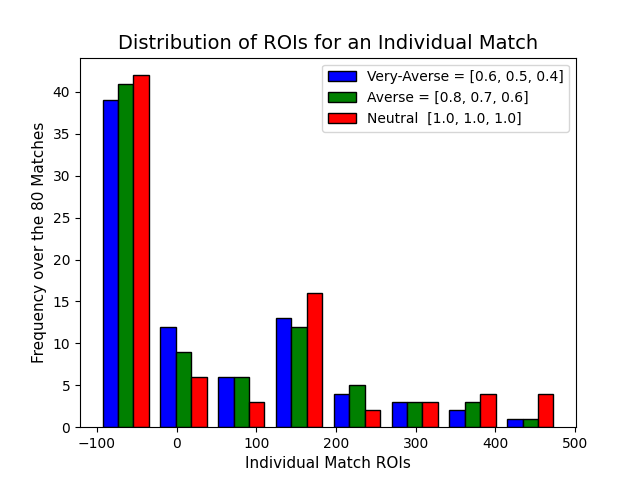
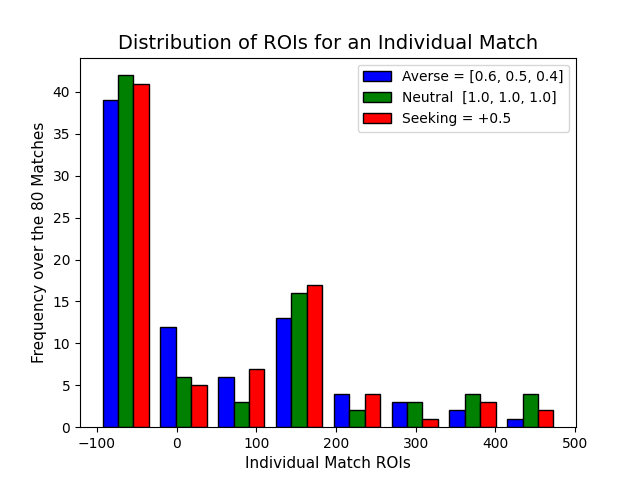
more plots

diff --git a/FullProjectCode/Visualisations.py b/FullProjectCode/Visualisations.py
@@ -21,7 +21,7 @@ def test80Matches(DB, matchesFileName):
     # Save figures to:
     #plotsFolder = 'C:\\Users\\campb\\OneDrive\\Documents\\University_ENGSCI\\4th Year\\ResearchProject\\ModelPlots\\'
     plotsFolder ='C:/Uni/4thYearProject/repo/BeatTheOdds/ProjectDevelopmentCode/VisualisationOutputs/'
-    saveFigures = False
+    saveFigures = True
 
     # Which plots to make:
     plot1 = False
@@ -34,7 +34,7 @@ def test80Matches(DB, matchesFileName):
     
     # Set up risk profile parameters:
     #profiles = ['Very-Averse', 'Averse', 'Less-Averse', 'Neutral']
-    profiles = ['Averse', 'Neutral', 'Seeking']
+    profiles = ['Averse','Seeking','Neutral']
     usersBalanceA = {}
     usersBalanceB = {}
     startingBal = 100.
@@ -245,12 +245,8 @@ def test80Matches(DB, matchesFileName):
         plt.hist([amountBet['Very-Averse'],amountBet['Averse']], 
         color=['blue','green'],edgecolor='black',label=['Very-Averse = [{}, {}, {}]'.format(riskProfiles['Very-Averse'][0],
         riskProfiles['Very-Averse'][1],riskProfiles['Very-Averse'][2]),'Averse = [{}, {}, {}]'.format(riskProfiles['Averse'][0],
-<<<<<<< HEAD
         riskProfiles['Averse'][1],riskProfiles['Averse'][2]),'Less-Averse = [{}, {}, {}]'.format(riskProfiles['Less-Averse'][0],
         riskProfiles['Less-Averse'][1],riskProfiles['Less-Averse'][2])],bins = 10)
-=======
-        riskProfiles['Averse'][1],riskProfiles['Averse'][2])],bins = 10)
->>>>>>> c8abc5dfb5ac9765d08072559e46dd14c15c7766
         plt.legend()
         plt.title('Distribution of Amount Bet', fontsize = 14)
         plt.xlabel('Amount Bet (as a proportion of your budget)', fontsize = 11)
